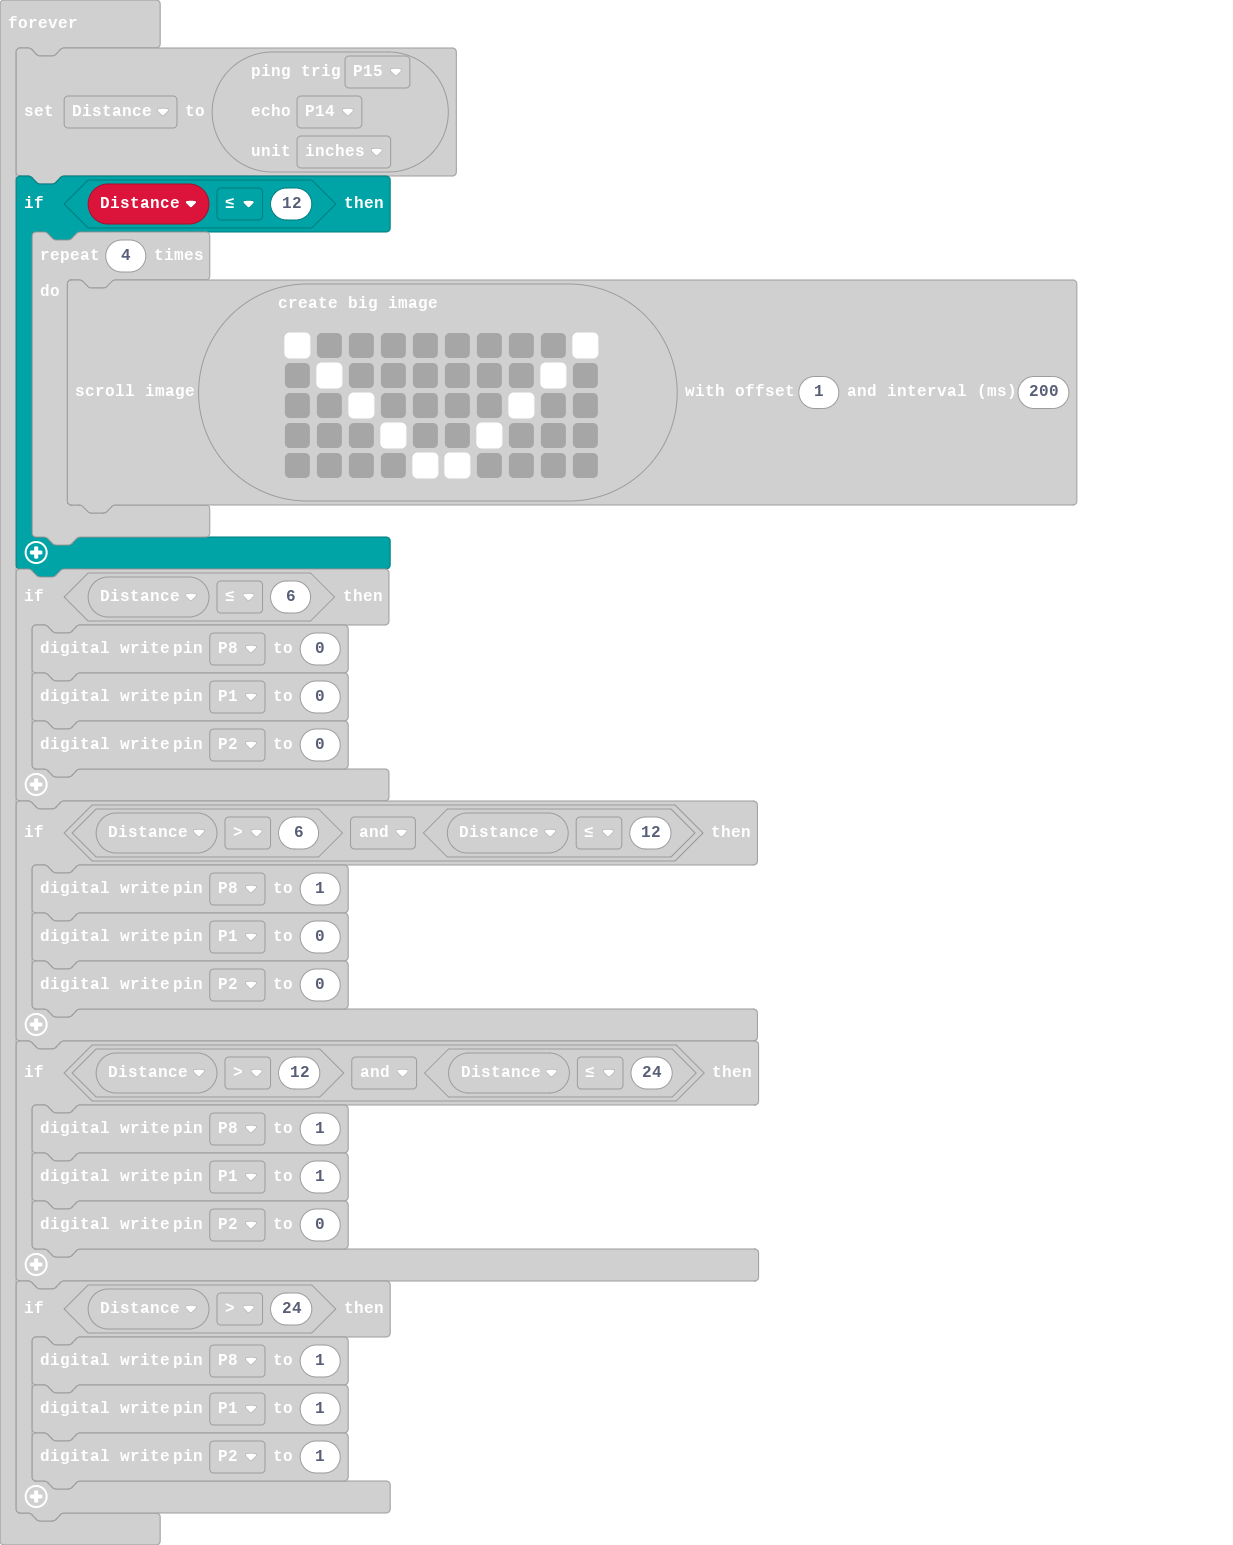
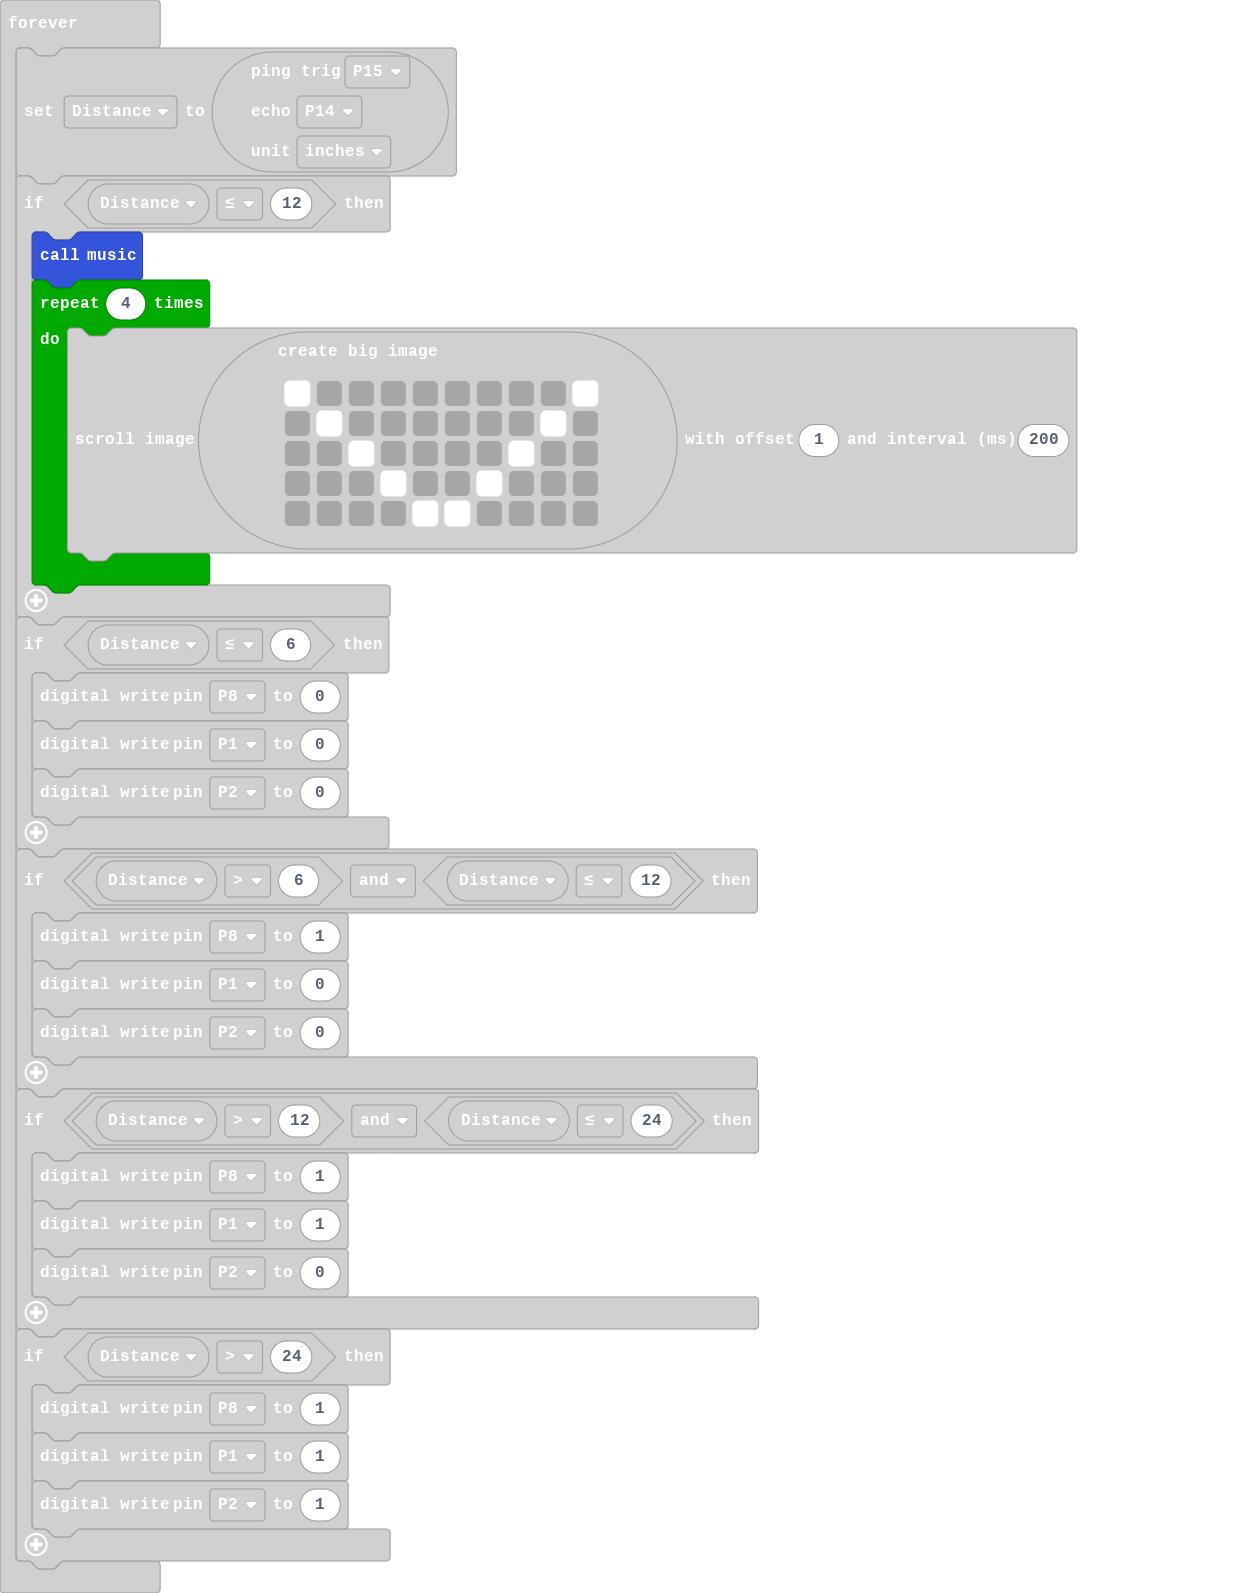
V-2.3

Changed region(s): [[0.0, 0.0311, 0.8938, 0.9631]]

diff --git a/main.ts b/main.ts
@@ -50,6 +50,7 @@ basic.forever(function () {
     PingUnit.Inches
     )
     if (Distance <= 12) {
+        music2()
         for (let index = 0; index < 4; index++) {
             images.createBigImage(`
                 # . . . . . . . . #
